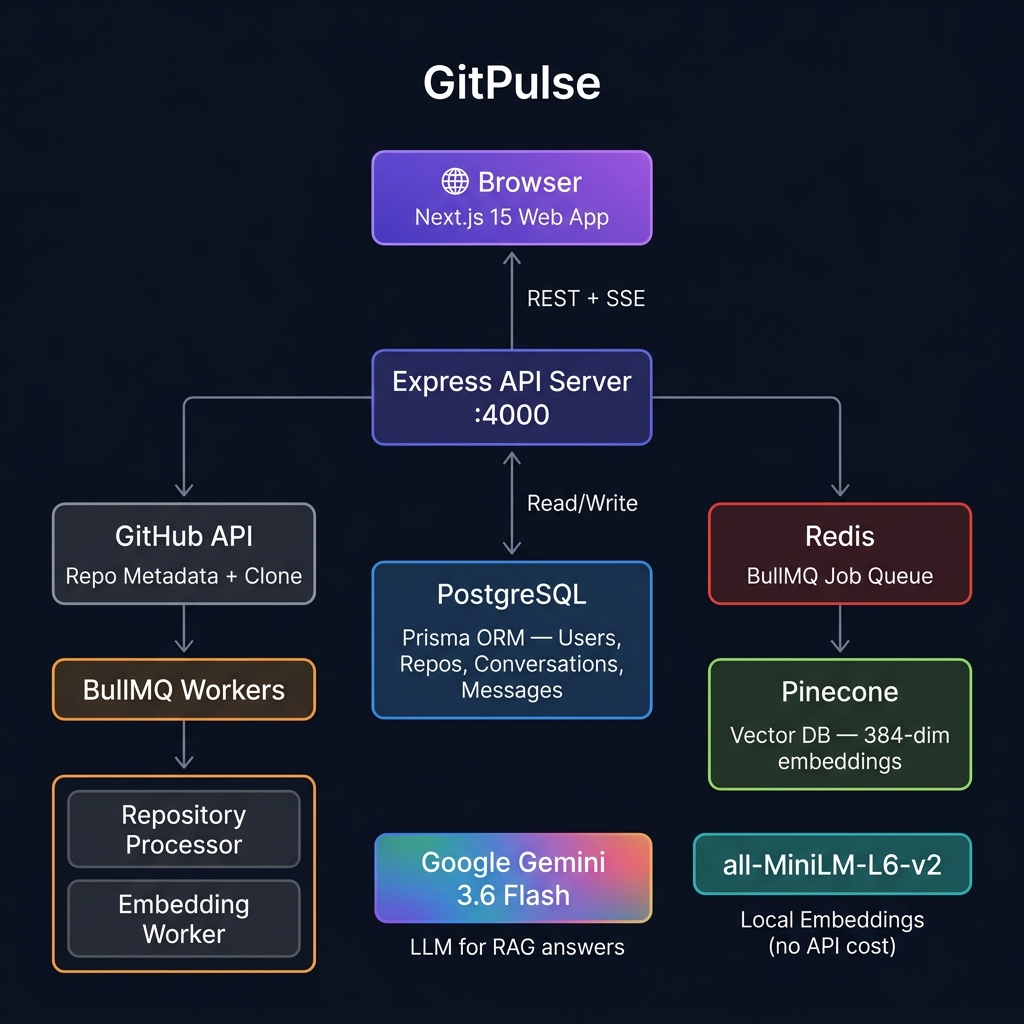
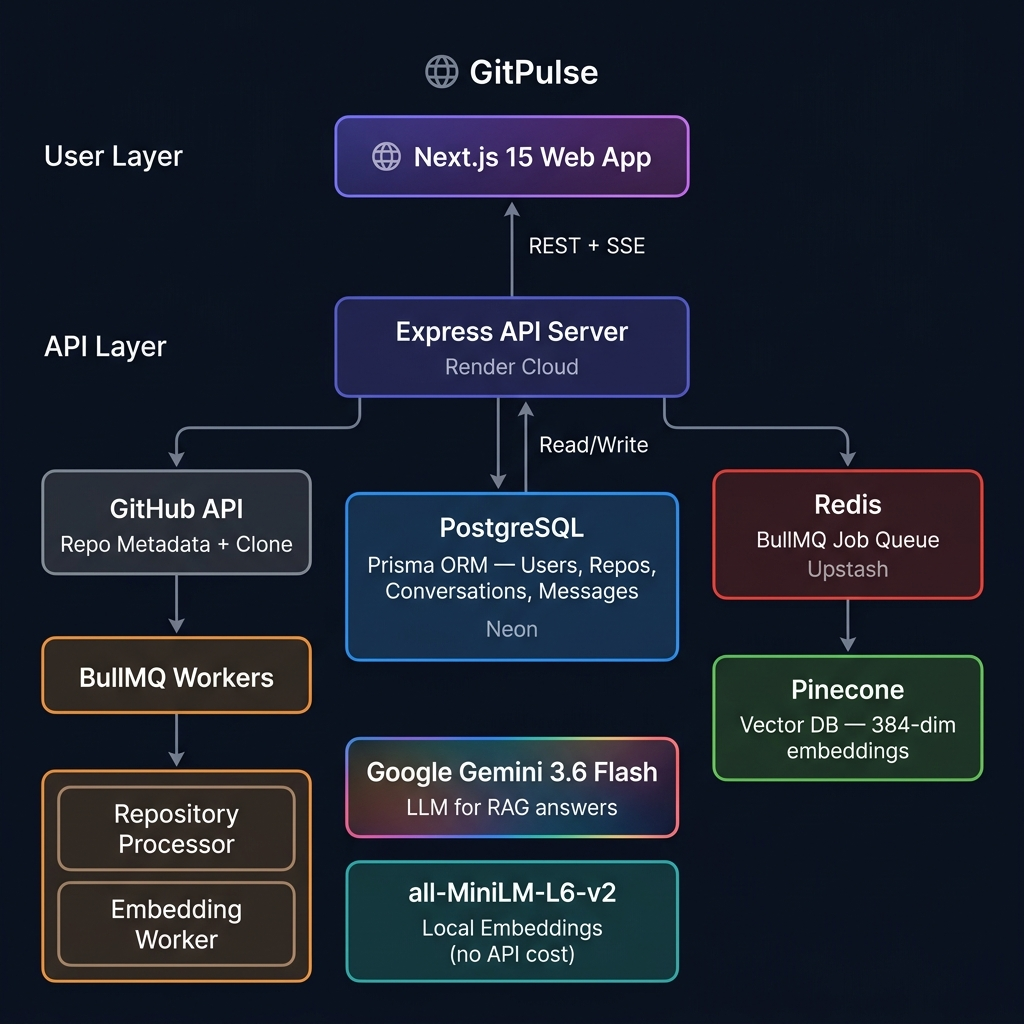
docs: replace :4000 port refs with Render in architecture diagram and ASCII art

diff --git a/README.md b/README.md
@@ -72,7 +72,7 @@ https://github.com/aryanthakur0505/Gitpulse/raw/main/docs/demo.webp
 User Question
      │
      ▼
-Next.js (Web)  ──REST/SSE──▶  Express API (:4000)
+Next.js (Web)  ──REST/SSE──▶  Express API (Render)
                                       │
                     ┌─────────────────┼─────────────────┐
                     ▼                 ▼                  ▼
